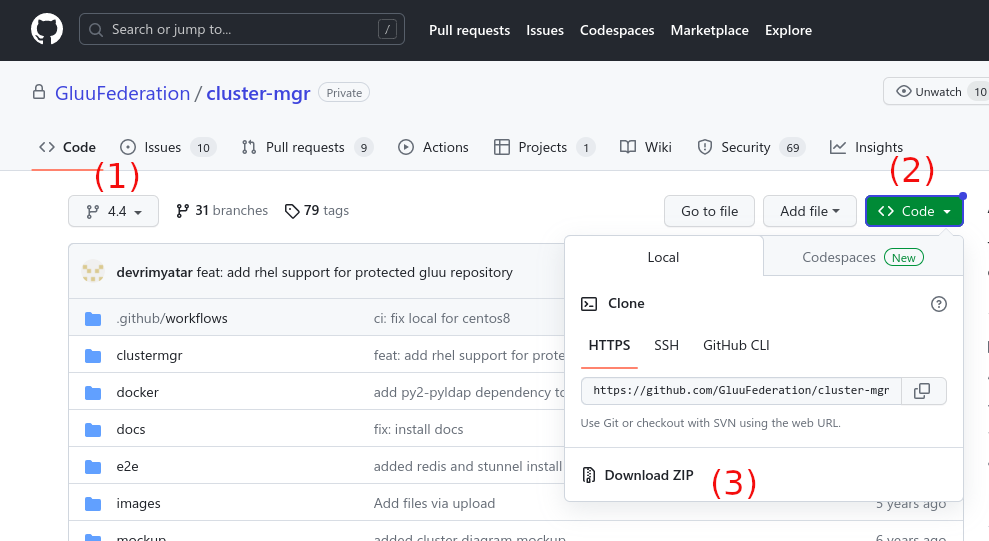
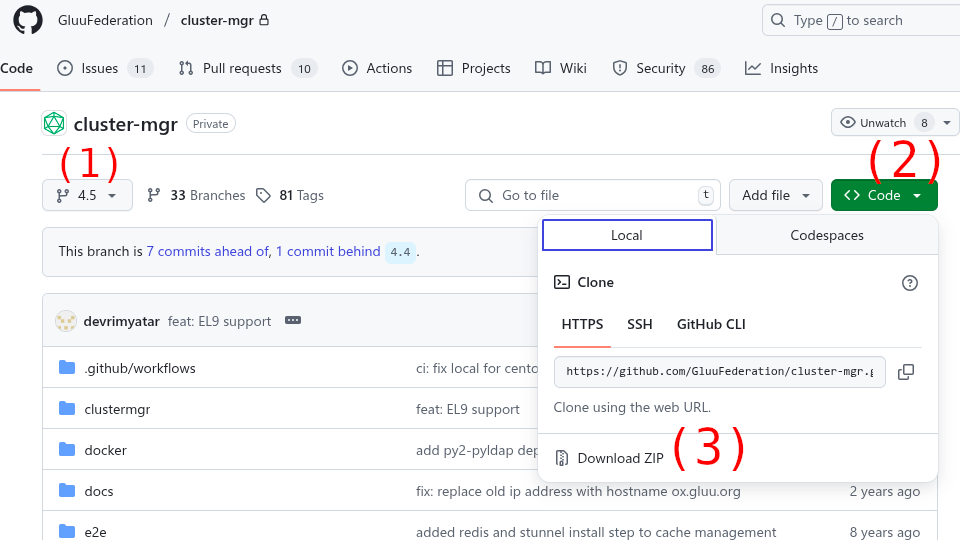
4.5 revision

diff --git a/docs/source/installation/index.md b/docs/source/installation/index.md
@@ -2,8 +2,8 @@
 
 ## Prerequisites
 
-- A minimum of four (4) machines running **Ubuntu 18-20, CentOS 7/ RHEL 7 or CentOS 8/ RHEL 8**:
-    - Cluster Manager: One (1) machine with at least 4GB of RAM for cluster manager, which will proxy TCP and HTTP traffic.
+- A minimum of four (4) machines running **Ubuntu 20-22**, **CentOS 7/ RHEL 7**, **CentOS Stream 8/ RHEL 8**, and **CentOS AppStream 9 / RHEL 9:
+    - Cluster Manager: One (1) machine with at least 2GB of RAM for cluster manager, which will proxy TCP and HTTP traffic.
     - Load Balancer: One (1) machine 4GB of RAM for the Nginx load balancer and Twemproxy. This server is not necessary if you are using your own load balancer **and** you use Redis Cluster on the Gluu Server installations.
     - Gluu Server(s): At least two (2) machines with at least 8GB of RAM for Gluu Servers. *SeLinux should be disabled in case of nochroot installation*.
     - Redis Cache Server (optional): One (1) machine with at least 4GB of RAM if you want to use redis for caching.
@@ -92,7 +92,7 @@ Could not retrieve mirrorlist http://mirrorlist.centos.org/?release=7&arch=x86_6
 Since Cluster Manager package is protected, download can be done via browser. If you have access to Cluster Manager github repository,
 navigate to https://github.com/GluuFederation/cluster-mgr
 
-(1) Select branch 4.4
+(1) Select branch 4.5
 
 (2) Click on **Code** button
 
@@ -100,7 +100,7 @@ navigate to https://github.com/GluuFederation/cluster-mgr
 
 ![Steps to download Cluster Manager package](../img/github-cm.png)
 
-Downloaded file should be uploaded to VM on which Cluster Manager will be installed. We uploaded file `cluster-mgr-4.4.zip` to `/root`
+Downloaded file should be uploaded to VM on which Cluster Manager will be installed. We uploaded file `cluster-mgr-4.5.zip` to `/root`
 
 
 ### SSH & Keypairs
@@ -139,7 +139,7 @@ pip3 install --upgrade python3-ldap
 If you did not download Cluster Manager package from github and uploaded, please do as explained in section [Download Cluster Manager](index.md#download-cluster-manager)
 
 ```
-pip3 install /root/cluster-mgr-4.4.zip
+pip3 install /root/cluster-mgr-4.5.zip
 ```
 
 #### Install on RedHat 7 and CentOS 7
@@ -166,7 +166,7 @@ pip3 install --upgrade python3-ldap
 If you did not download Cluster Manager package from github and uploaded, please do as explained in section [Download Cluster Manager](index.md#download-cluster-manager)
 
 ```
-pip3 install /root/cluster-mgr-4.4.zip
+pip3 install /root/cluster-mgr-4.5.zip
 ```
 
 There may be a few innocuous warnings, but this is normal.
@@ -195,7 +195,36 @@ pip3 install --upgrade python3-ldap
 If you did not download Cluster Manager package from github and uploaded, please do as explained in section [Download Cluster Manager](index.md#download-cluster-manager)
 
 ```
-pip3 install /root/cluster-mgr-4.4.zip
+pip3 install /root/cluster-mgr-4.5.zip
+```
+
+
+#### Install on RedHat 9 and CentOS 9-AppStream
+
+Install epel-release:
+
+`yum install -y https://dl.fedoraproject.org/pub/epel/epel-release-latest-9.noarch.rpm`
+
+`yum repolist clean`
+
+!!! Note
+    If your Gluu Server nodes will be Red Hat 9 / CentOS 9-AppStream,
+    1. Please enable epel release each node (by repeating above steps) before attempting to install Gluu Server via CM.
+    2. Reboot after enable installing SHA-1 signed packages with command `update-crypto-policies --set LEGACY`
+    3. CM will enable CentOS 9-AppStream repositories both inside and outside of the container to install dependencies. You cand disable CentOS 9-AppStream repositories manually after finishing cluster setup.
+    
+
+
+Install dependencies:
+
+```
+yum install -y wget which curl python3 python3-pip java-1.8.0-openjdk-headless python3-psutil python3-ldap
+```
+
+If you did not download Cluster Manager package from github and uploaded, please do as explained in section [Download Cluster Manager](index.md#download-cluster-manager)
+
+```
+pip3 install /root/cluster-mgr-4.5.zip
 ```
 
 <!--
@@ -204,8 +233,8 @@ pip3 install /root/cluster-mgr-4.4.zip
 Prepare the license validator by using the following commands:
 
 ```
-mkdir -p $HOME/.clustermgr4/javalibs
-wget -q https://maven.gluu.org/maven/org/gluu/oxauth-client/4.3.1.Final/oxauth-client-4.3.1.Final-jar-with-dependencies.jar -O $HOME/.clustermgr4/javalibs/oxlicense-validator.jar
+mkdir -p $HOME/.clustermgr5/javalibs
+wget -q https://maven.gluu.org/maven/org/gluu/oxauth-client/4.3.1.Final/oxauth-client-4.3.1.Final-jar-with-dependencies.jar -O $HOME/.clustermgr5/javalibs/oxlicense-validator.jar
 ```
 
 !!! Note
@@ -222,8 +251,8 @@ wget -q https://maven.gluu.org/maven/org/gluu/oxauth-client/4.3.1.Final/oxauth-c
 If automated key rotation is required, you'll need to download the keygen.jar. Prepare the OpenID Connect keys generator by using the following commands:
 
 ```
-mkdir -p $HOME/.clustermgr4/javalibs
-wget https://maven.gluu.org/maven/org/gluu/oxauth-client/<Grab_your_Gluu_Server_version_repo_link>/oxauth-client-4.x.x.Final-jar-with-dependencies.jar  -O $HOME/.clustermgr4/javalibs/keygen.jar
+mkdir -p $HOME/.clustermgr5/javalibs
+wget https://maven.gluu.org/maven/org/gluu/oxauth-client/<Grab_your_Gluu_Server_version_repo_link>/oxauth-client-4.x.x.Final-jar-with-dependencies.jar  -O $HOME/.clustermgr5/javalibs/keygen.jar
 ```
 
 Automated key rotation can be configured inside the Cluster Manager UI.
@@ -232,17 +261,17 @@ Automated key rotation can be configured inside the Cluster Manager UI.
 
 The following commands will stop/start/restart all the components of Cluster Manager:
 
- - `clustermgr4-cli stop`
- - `clustermgr4-cli start`
- - `clustermgr4-cli restart`
+ - `clustermgr5-cli stop`
+ - `clustermgr5-cli start`
+ - `clustermgr5-cli restart`
 
 
 !!! Note
-    All the Cluster Manager logs can be found in the `$HOME/.clustermgr4/logs` directory
+    All the Cluster Manager logs can be found in the `$HOME/.clustermgr5/logs` directory
 
 ### Create Credentials
 
-When Cluster Manager is run for the first time, it will prompt for creation of an admin username and password. This creates an authentication config file at `$HOME/.clustermgr4/auth.ini`.
+When Cluster Manager is run for the first time, it will prompt for creation of an admin username and password. This creates an authentication config file at `$HOME/.clustermgr5/auth.ini`.
 
 
 ### Create New User
@@ -271,5 +300,5 @@ Next, move on to [deploy the Gluu cluster](../deploy/index.md).
 To uninstall Cluster Manager, simply:
 
 ```
-pip3 uninstall clustermgr4
+pip3 uninstall clustermgr5
 ```

diff --git a/docs/source/deploy/index.md b/docs/source/deploy/index.md
@@ -38,7 +38,7 @@ After it's finished, click the `Start` button to move on to the dashboard.
     If you are installing nochroot package, SeLinux should be disabled on all nodes.
 
 
-- `Offline installation` Cluster Manager can install Gluu Servers and configure all servers in cluster without public internet access. If your servers don't have public internet access check this. You will put Gluu Server package(s) to `~/.clustermgr4/gluu_repo` (please refresh this page after putting package), here is a sample:
+- `Offline installation` Cluster Manager can install Gluu Servers and configure all servers in cluster without public internet access. If your servers don't have public internet access check this. You will put Gluu Server package(s) to `~/.clustermgr5/gluu_repo` (please refresh this page after putting package), here is a sample:
 
   ![Offline mode](../img/Cluster_Manager_offline.png)
 
@@ -63,7 +63,7 @@ After it's finished, click the `Start` button to move on to the dashboard.
 
 - `Custom Schema Files` can be added here as well.
 
-- `Upgrade` will automatically upgrade your Cluster Manager instance to the latest version. This requires you restart the instance with `clustermgr4-cli restart`. Alternatively this can be done manually with `pip install clustermgr4` and restarting Cluster Manager `clustermgr4-cli restart`.
+- `Upgrade` will automatically upgrade your Cluster Manager instance to the latest version. This requires you restart the instance with `clustermgr5-cli restart`. Alternatively this can be done manually with `pip install clustermgr5` and restarting Cluster Manager `clustermgr5-cli restart`.
 
 Once the settings are configured, click the `Update Configuration button`.
 
@@ -254,7 +254,7 @@ Click `Settings` to enable this functionality, as well as setting the time inter
 
 ![Key Rotation Set](../img/CM_KeyRotationConfig.png)
 
-If you want to keep copies of old keys check **Backup old keys** option. This enables you keep track of your keys. Cluster Manager saves current keys to `~/.clustermgr4/backup_oxAuthConfWebKeys` in json format.
+If you want to keep copies of old keys check **Backup old keys** option. This enables you keep track of your keys. Cluster Manager saves current keys to `~/.clustermgr5/backup_oxAuthConfWebKeys` in json format.
 
 ## Certificates
 
@@ -291,7 +291,7 @@ Log out from Cluster Manager. You will see `Login with Gluu Server` link. Once y
 
 ![Oxd Settings](../img/CM_oxd_user_login.png)
 
-You can see who made changes in the logs. For example in `~/.clustermgr4/logs/sql.log`, user `mike` updated configuration:
+You can see who made changes in the logs. For example in `~/.clustermgr5/logs/sql.log`, user `mike` updated configuration:
 
 ```
 2020-03-17 15:06:31,787 - mike@openid - DEBUG - UPDTE[AppConfiguration]: {"object_class_base": null, "cache_host": null, "nginx_host": "c3.gluu.org", "id": 1, "gluu_version": "4.1.0", "monitoring": true, "replication_dn": null, "last_test": null, "nginx_os": "Ubuntu 16", "use_ldap_cache": false, "nginx_ip": "159.89.38.138", "nginx_os_type": "Ubuntu 16", "offline": false, "external_load_balancer": false, "modify_hosts": false, "log_purge": null, "attribute_oid": 100, "gluu_archive": "", "use_ip": null, "latest_version": "4.0-6", "ldap_update_period_unit": "s", "replication_pw": "1234.Gluu", "ldap_update_period": "300", "cache_ip": null, "admin_email": null}

diff --git a/docs/source/operations/upgrade.md b/docs/source/operations/upgrade.md
@@ -7,20 +7,17 @@ Cluster Manager has a built-in upgrade feature which checks the GitHub repo for 
 To perform an upgrade manually, simply uninstall the current installation and install latest package. 
 
 !!! Attention
-    Although this process won't affect `~/.clustermgr4`, and is therefore safe, a [backup](./backup.md) is still recommended before proceeding. 
+    Although this process won't affect `~/.clustermgr5`, and is therefore safe, a [backup](./backup.md) is still recommended before proceeding. 
 
 ### Uninstall
 To uninstall Cluster Manager:
 
 ```
-clustermgr4-cli stop
-pip3 uninstall clustermgr4
+clustermgr5-cli stop
+pip3 uninstall clustermgr5
 ```
 
 ### Reinstall
 To re-install latest package from Github.
 
-```
-pip3 install https://github.com/GluuFederation/cluster-mgr/archive/4.3.zip
-clustermgr4-cli start
-```
+[Install from GitHub](./installation/index.md#installing-cluster-manager)

diff --git a/docs/source/operations/backup.md b/docs/source/operations/backup.md
@@ -1,25 +1,25 @@
 # Backup & Restore
 
 ## Overview
-Cluster Manager stores all data under `~/.clustermgr4`. The process to backup and restore is described below. 
+Cluster Manager stores all data under `~/.clustermgr5`. The process to backup and restore is described below. 
 
 ### Backup
 To backup Cluster Manager, simply:
 
 ```
-# clustermgr4-cli stop
+# clustermgr5-cli stop
 # cd ~
-# tar -zcf clustermgr4-backup.tgz .clustermgr4
+# tar -zcf clustermgr4-backup.tgz .clustermgr5
 ```
 
 !!! Attention
-    Make sure to keep `clustermgr4-backup.tgz` in a safe palce. 
+    Make sure to keep `clustermgr5-backup.tgz` in a safe palce. 
 
 ### Restore
 To restore from backup, extract as follows:
 
 ```
 # cd ~
-# tar -zxf clustermgr4-backup.tgz
-# clustermgr4-cli start
+# tar -zxf clustermgr5-backup.tgz
+# clustermgr5-cli start
 ```

diff --git a/docs/source/building/index.md b/docs/source/building/index.md
@@ -4,7 +4,7 @@ In this section we will explain how to build build self-contained, single-artifa
 
 ## Install dependencies
 
-### on Ubuntu 18/20
+### on Ubuntu 20/22
 
 ```
 apt install -y wget unzip python3 python3-pip make
@@ -27,14 +27,14 @@ pip3 install --upgrade shiv
 Download Cluster Manager archieve
 
 ```
-wget https://github.com/GluuFederation/cluster-mgr/archive/refs/heads/4.4.zip
+wget https://github.com/GluuFederation/cluster-mgr/archive/refs/heads/4.5.zip
 ```
 
 Unzip and build
 
 ```
-unzip 4.4.zip
-cd cluster-mgr-4.4/
+unzip 4.5.zip
+cd cluster-mgr-4.5/
 make zipapp
 ```
 
@@ -43,7 +43,7 @@ make zipapp
 You can run Cluster Manager as
 
 ```
-./clustermgr4-4.pyz run-clustermgr
+./clustermgr4-5.pyz run-clustermgr
 ```
 
 Locate your browser to http://localhost:5000
